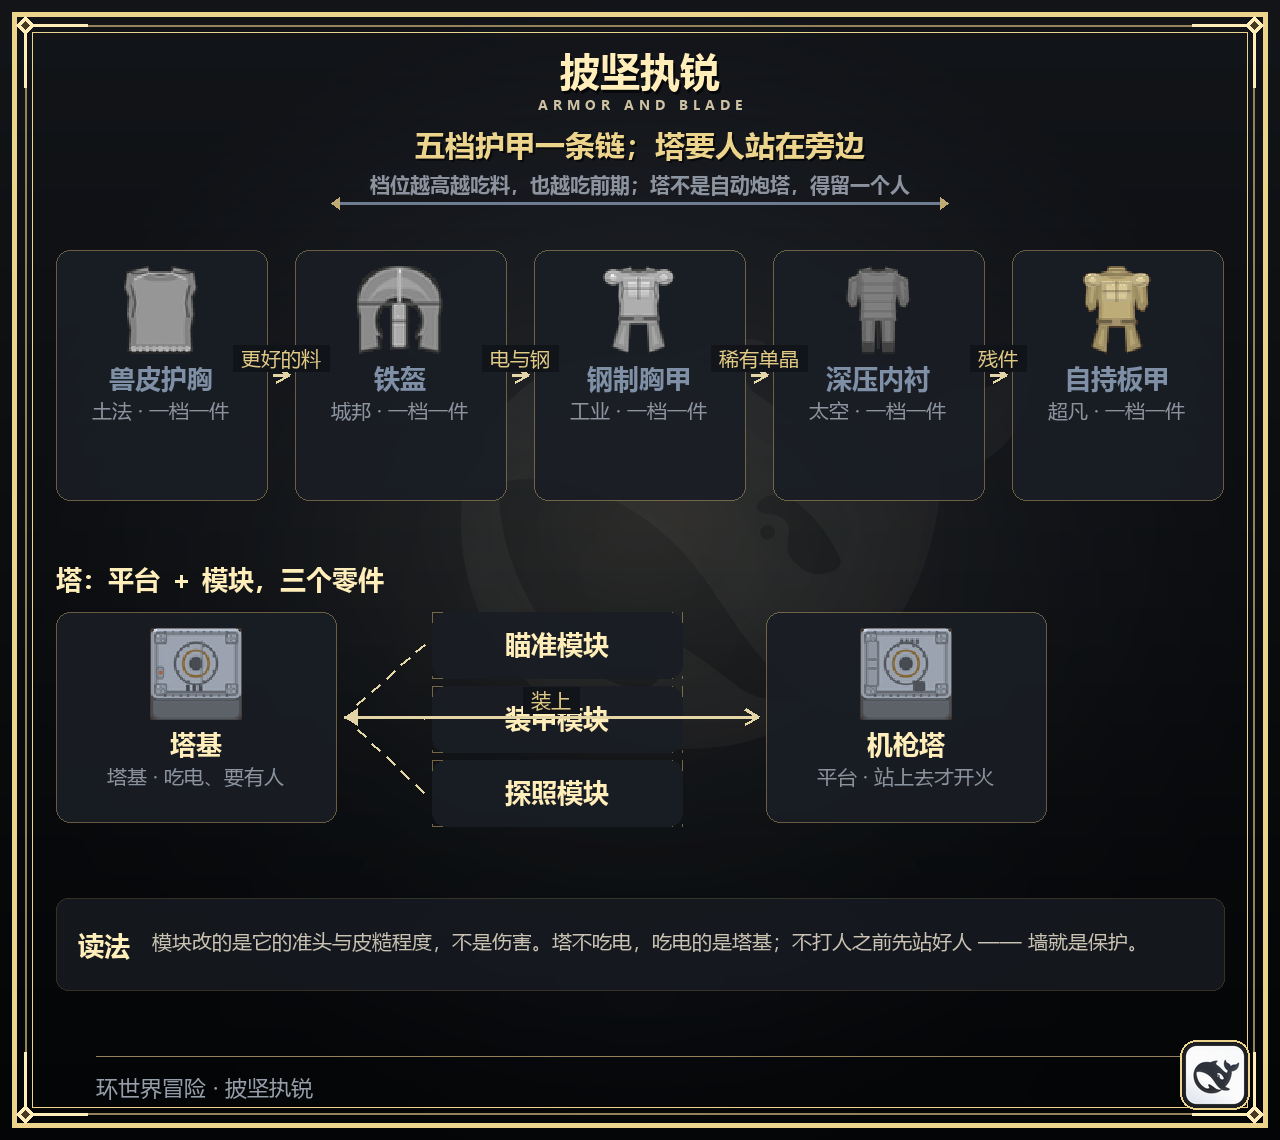
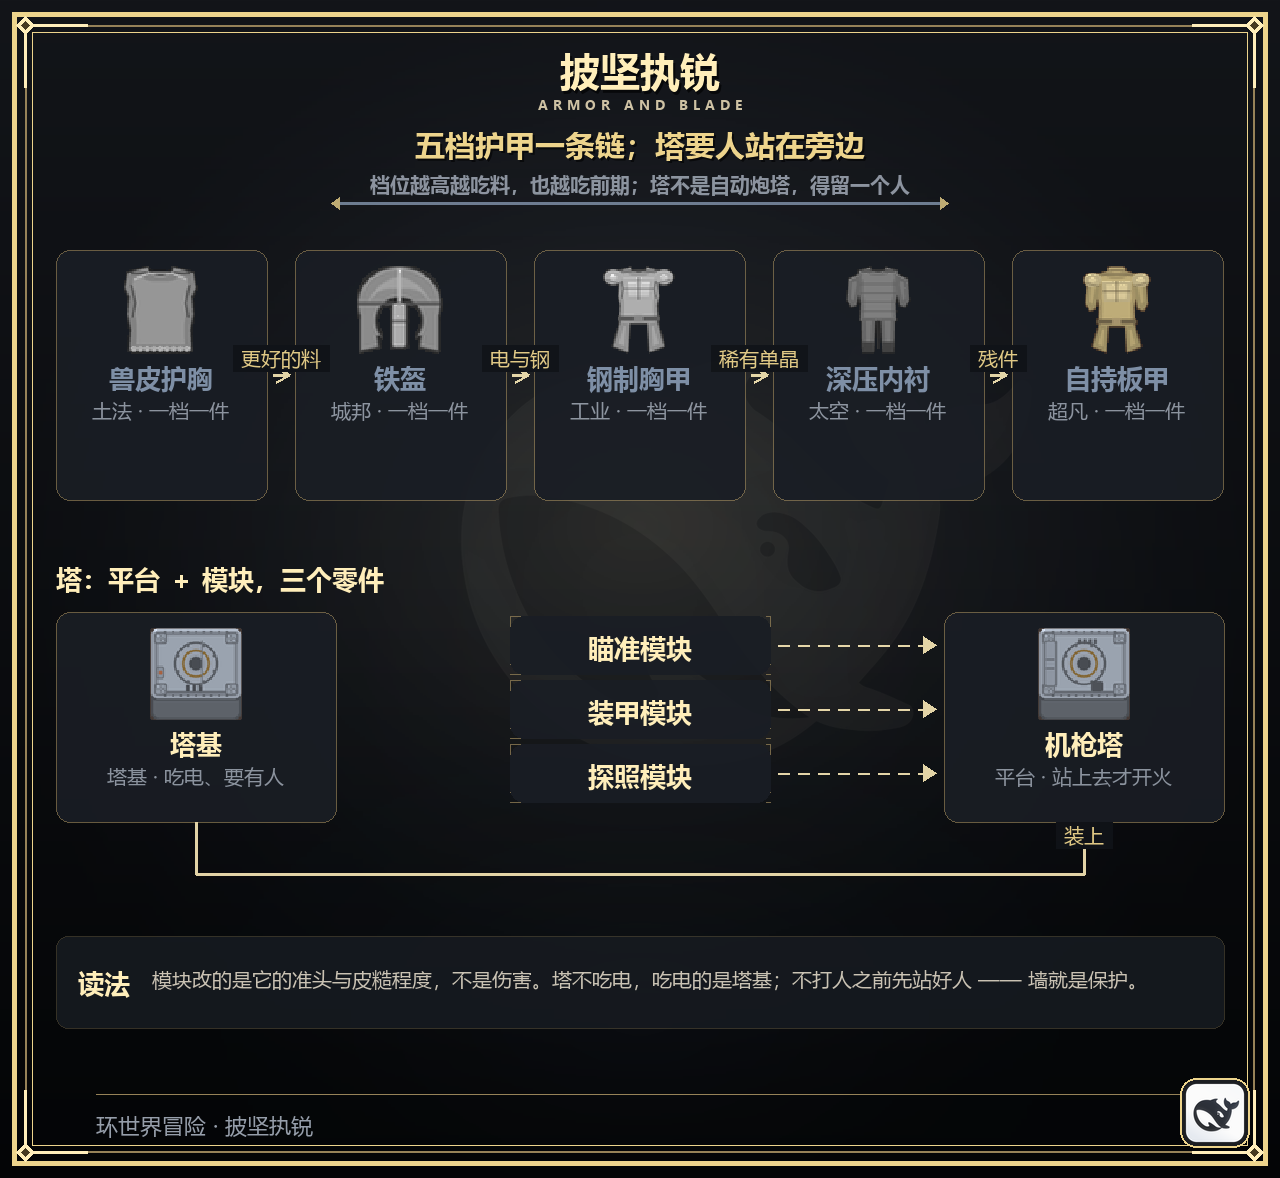
补两张封面 + 更新 6 张机制图 + README 目录表同步（31 张）

diff --git a/README.md b/README.md
@@ -1,6 +1,6 @@
 # rimworld-adventure
 
-「环世界冒险」八模组 Steam 创意工坊页面的描述配图。
+「环世界冒险」八模组 Steam 创意工坊页面的描述配图，共 31 张。
 
 这些图只用于嵌入 Steam 工坊页的 **描述正文**（工坊自带的图片展示区放不了描述内嵌图）。
 
@@ -12,6 +12,8 @@
 | sec- | 通用章节牌匾（1280×140，八页共用） | 4 |
 | items- | 物品一览图（1280 宽） | 9 |
 | mech- | 机制详解图（1280 宽） | 8 |
+| cover- | 合集封面（cover-collection 大图 / cover-collection-s 小图） | 2 |
+| 合计 | 全部配图 | 31 |
 
 ## 直链用法
 
@@ -23,4 +25,4 @@
 
     https://raw.githubusercontent.com/ATOIN/rimworld-adventure/main/<文件名>.png
 
-模组：一以之之（Core）、天工开物、源源不绝、列国春秋、切磋琢磨、石药尔雅、钟鸣鼎食、披坚执锐。
+模组：一以贯之（Core）、天工开物、源源不绝、列国春秋、切磋琢磨、石药尔雅、钟鸣鼎食、披坚执锐。
